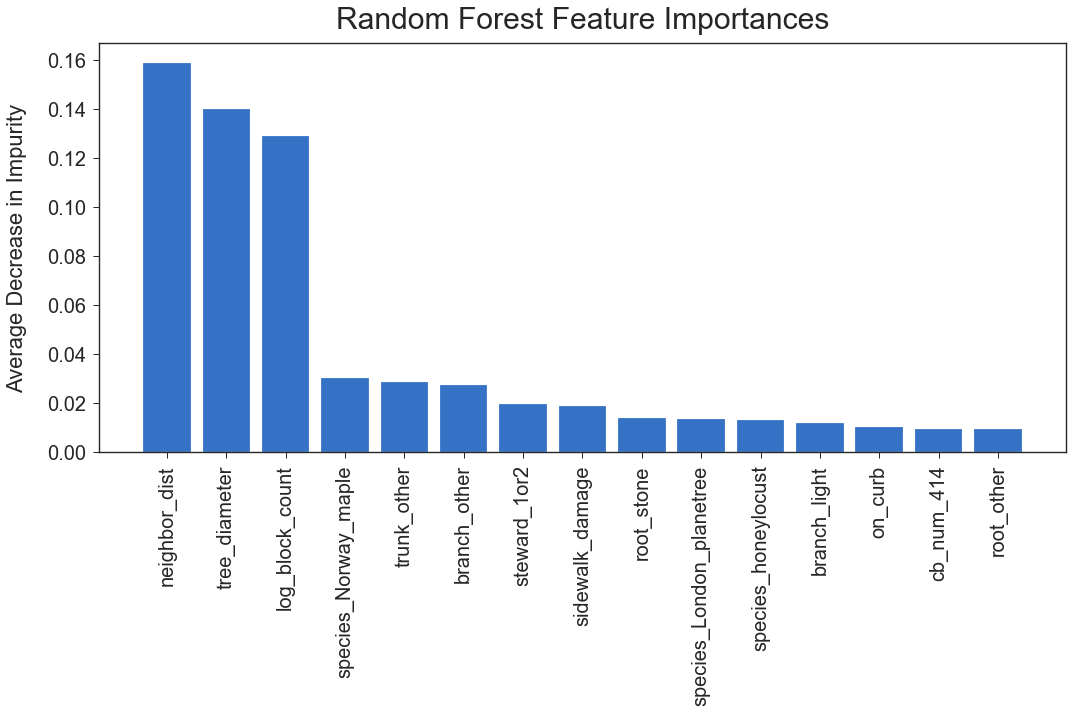
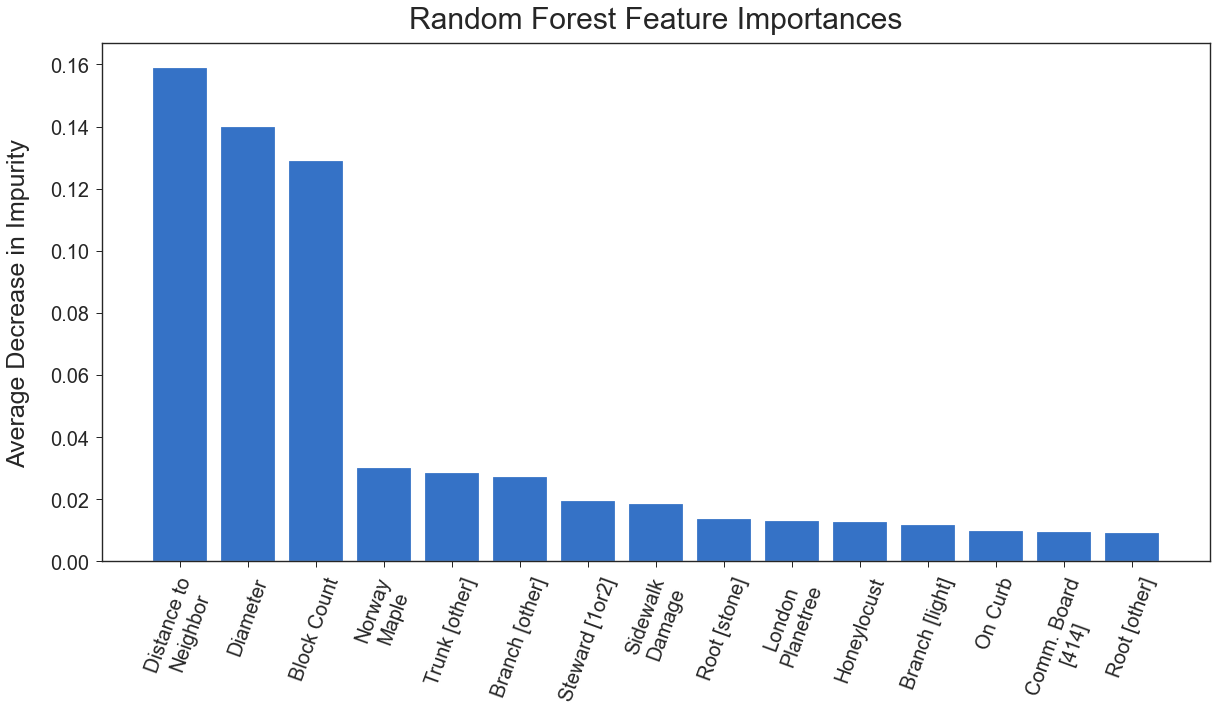
organize repo, fix wording, add clear xtick labels

diff --git a/README.md b/README.md
@@ -70,6 +70,7 @@ In the meantime, the NYC Street Trees Census is fairly thorough and rife with op
 - **maps_creations.ipynb** - Jupyter Notebook for making maps of NYC street trees.
 - **presentation.pdf** - presentation for New York City Department of Parks and Recreation with my findings.
 - **archives** folder - scrap notebooks.
+- **data** folder - cleaned data and variable descriptions.
 - **images** folder - insightful charts and maps from the project.
 
 
